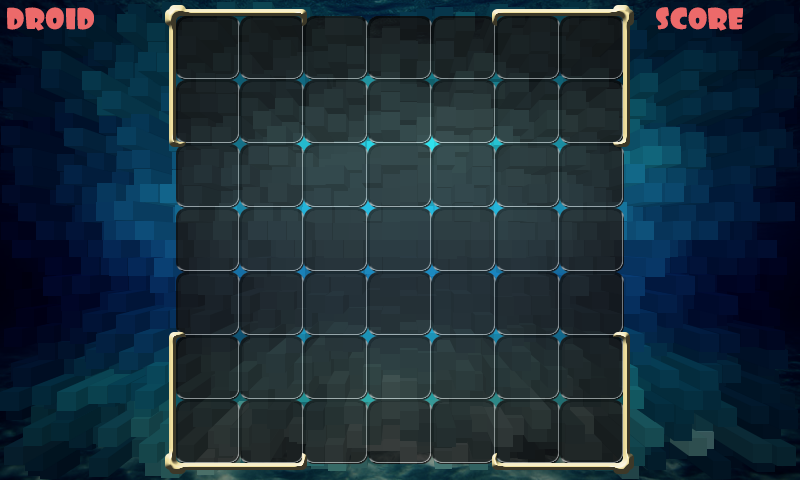
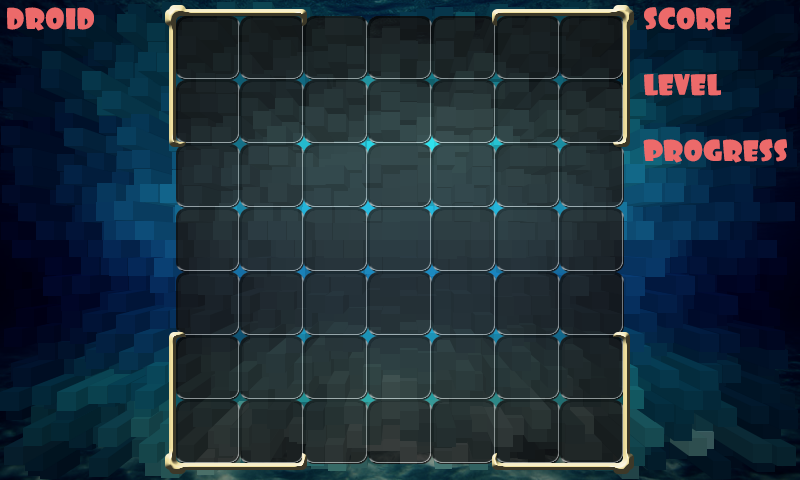
Add "level system", save progress in prefs

Changed region(s): [[0.7812, 0.2812, 1.0, 0.3438], [0.7812, 0.0, 0.9375, 0.0625], [0.7812, 0.1562, 0.9062, 0.2188]]

diff --git a/wobblebubble/core/src/org/lunapark/develop/wobblebubble/screen/ScreenGame.java b/wobblebubble/core/src/org/lunapark/develop/wobblebubble/screen/ScreenGame.java
@@ -3,6 +3,7 @@ package org.lunapark.develop.wobblebubble.screen;
 import com.badlogic.gdx.Game;
 import com.badlogic.gdx.Gdx;
 import com.badlogic.gdx.Input.Keys;
+import com.badlogic.gdx.Preferences;
 import com.badlogic.gdx.graphics.GL20;
 import com.badlogic.gdx.scenes.scene2d.Actor;
 import com.badlogic.gdx.scenes.scene2d.InputEvent;
@@ -28,6 +29,8 @@ public class ScreenGame extends ScreenBase {
 	private static final int STEP = 64;
 	// Great random
 	Random random = new Random();
+	// Preferences
+	Preferences preferences;
 	private int FIELD_SIZE_X = GameConstants.FIELD_SIZE_X;
 	private int FIELD_SIZE_Y = GameConstants.FIELD_SIZE_Y;
 	private int DELTA_X = (GameConstants.SCREEN_SIZE_X - GameConstants.CELL_SIZE
@@ -35,7 +38,9 @@ public class ScreenGame extends ScreenBase {
 	private int DELTA_Y = (GameConstants.SCREEN_SIZE_Y - GameConstants.CELL_SIZE
 			* GameConstants.FIELD_SIZE_Y) / 2;
 	// Initial level condition
-	private int score = 0;
+	private long score = 0;
+	private long progressScore = 0;
+	private long levelNumber = 1;
 	private int droidParts = 0;
 	// Stage
 	private Stage stage;
@@ -44,15 +49,17 @@ public class ScreenGame extends ScreenBase {
 	private ActorGestureListener gestureListener;
 
 	// Text
-	private ActorText scoreText;
+	private ActorText scoreText, progressText, levelText;
 	private ActorText droidPartsText;
 
 	// Game field
 	private ActorBubble[][] gameField = new ActorBubble[FIELD_SIZE_X][FIELD_SIZE_Y];
+
 	// Game variables
 	private boolean allowCheck = true, allowFling = true, startTheGame = false;
 	private ActorTable droidTarget = new ActorTable(0, 0); //
 	private FlingVector droidVector;
+
 	// Effects
 	private ActorFx actorFx;
 	// Actors
@@ -73,6 +80,12 @@ public class ScreenGame extends ScreenBase {
 	@Override
 	public void show() {
 
+		if (preferences == null) {
+			preferences = Gdx.app.getPreferences("WobbleBubblePreferences");
+		}
+		levelNumber = preferences.getLong("Level");
+		progressScore = preferences.getLong("Progress");
+
 		// Create stage and stretch it to full screen
 		stage = new Stage(new StretchViewport(GameConstants.SCREEN_SIZE_X,
 				GameConstants.SCREEN_SIZE_Y));
@@ -84,6 +97,7 @@ public class ScreenGame extends ScreenBase {
 			@Override
 			public boolean keyUp(InputEvent event, int keycode) {
 				if ((keycode == Keys.BACK) || (keycode == Keys.ESCAPE)) {
+					saveProgress();
 					game.setScreen(new ScreenMainMenu(game));
 				}
 				return true;
@@ -138,11 +152,18 @@ public class ScreenGame extends ScreenBase {
 
 		// Create text labels
 		scoreText = new ActorText(String.valueOf(score));
-		droidPartsText = new ActorText(droidParts + "/" + GameConstants.DROID_PARTS);
+		progressText = new ActorText(String.valueOf(progressScore));
+
+		levelText = new ActorText(String.valueOf(levelNumber));
 
 		scoreText.setPosition(
 				GameConstants.SCREEN_SIZE_X - Assets.fontFoo.getXHeight() * 8,
 				GameConstants.SCREEN_SIZE_Y - Assets.fontFoo.getXHeight() * 2);
+
+		progressText.setPosition(scoreText.getX(), scoreText.getY() - 132);
+		levelText.setPosition(scoreText.getX(), scoreText.getY() - 66);
+
+		droidPartsText = new ActorText(droidParts + "/" + GameConstants.DROID_PARTS);
 		droidPartsText.setPosition(8, GameConstants.SCREEN_SIZE_Y - Assets.fontFoo.getXHeight() * 2);
 
 		// Create fx pool actor
@@ -155,6 +176,9 @@ public class ScreenGame extends ScreenBase {
 		// Add bg & actors to stage
 		stage.addActor(backgroundImage);
 		stage.addActor(scoreText);
+		stage.addActor(progressText);
+		showGameProgress();
+		stage.addActor(levelText);
 		stage.addActor(droidPartsText);
 
 		// Create field
@@ -551,9 +575,41 @@ public class ScreenGame extends ScreenBase {
 	 */
 	public void scoreAdd(int increment) {
 		// Game started, score added
-		if (startTheGame)
+		if (startTheGame) {
 			score += increment;
+			progressScore += increment;
+		}
 		scoreText.setTextValue(String.valueOf(score));
+
+		showGameProgress();
+	}
+
+	/**
+	 * Calculate next level goal score
+	 *
+	 * @param level
+	 * @return
+	 */
+	private long getScoreByLevel(long level) {
+		return (long) Math.pow(GameConstants.LEVEL_BASE, level) * 5000 + GameConstants.LEVEL_INCREMENT;
+	}
+
+	private void showGameProgress() {
+		long nextLevelScore = getScoreByLevel(levelNumber);
+		if (progressScore >= nextLevelScore) {
+			levelNumber++;
+			progressScore = 0;
+		}
+		int progressPercent = Math.round((float) progressScore * 99 / nextLevelScore);
+		//System.out.println(progressScore + " / " + nextLevelScore + " = " + progressPercent);
+		progressText.setTextValue(progressPercent + "%");
+		levelText.setTextValue(String.valueOf(levelNumber));
+	}
+
+	private void saveProgress() {
+		preferences.putLong("Level", levelNumber);
+		preferences.putLong("Progress", progressScore);
+		preferences.flush();
 	}
 
 	/**
@@ -922,6 +978,7 @@ public class ScreenGame extends ScreenBase {
 	 */
 	@Override
 	public void dispose() {
+
 		if (actorBonusDroid.isActivated())
 			droidTask.cancel();
 		stage.dispose();
@@ -931,6 +988,7 @@ public class ScreenGame extends ScreenBase {
 	@Override
 	public void pause() {
 		// TODO Auto-generated method stub
+		saveProgress();
 		super.pause();
 	}
 

diff --git a/wobblebubble/core/src/org/lunapark/develop/wobblebubble/assets/GameConstants.java b/wobblebubble/core/src/org/lunapark/develop/wobblebubble/assets/GameConstants.java
@@ -17,7 +17,7 @@ public class GameConstants {
 	public static final float BONUS_FADE_OUT = 0.2f;
 
 	// Droid
-	public static final float DROID_DURATION = 15.0f;
+	public static final float DROID_DURATION = 20.0f; // 15
 	public static final int DROID_PARTS = 7; // activation bonus
 	public static final int BUBBLE_TYPES = 6; // Default 6
 	public static final float DELAY_FLING = 1.2f;
@@ -30,6 +30,10 @@ public class GameConstants {
 	public static int SCORE_INCREMENT = 50;
 	public static int SCORE_INCREMENT2 = 10;
 	public static int SCORE_BIG_BOOM_BONUS = 10000;
+
+	public static float LEVEL_BASE = 1.5f;
+	public static int LEVEL_INCREMENT = 20000;
+
 	public static int BONUS_RANDOM = 25;
 	public static int BONUS_SCORE_INC = 5000;
 	public static enum bonusType {

diff --git a/wobblebubble/core/src/testLevelSystem.java b/wobblebubble/core/src/testLevelSystem.java
@@ -1,0 +1,16 @@
+/**
+ * Created by znak on 17.11.2014.
+ */
+public class testLevelSystem {
+    public static void main(String[] args) {
+        int lvl = 0;
+        for (int i = 1; i < 10; i++) {
+            long score = (long) Math.pow(1.5, i) * 5000 + 50000;
+            System.out.println("level: " + i + " score: " + score);
+        }
+    }
+
+    private long getScoreByLevel(int level) {
+        return (long) Math.pow(1.5, level) * 5000 + 50000;
+    }
+}

diff --git a/wobblebubble/core/src/org/lunapark/develop/wobblebubble/screen/ScreenMainMenu.java b/wobblebubble/core/src/org/lunapark/develop/wobblebubble/screen/ScreenMainMenu.java
@@ -82,7 +82,6 @@ public class ScreenMainMenu extends ScreenBase {
 		stage.addActor(btnPlay);
 		stage.addActor(btnQuit);
 
-		Assets.bgmMain.stop();
 		Assets.bgmMain.play();
 	}
 
